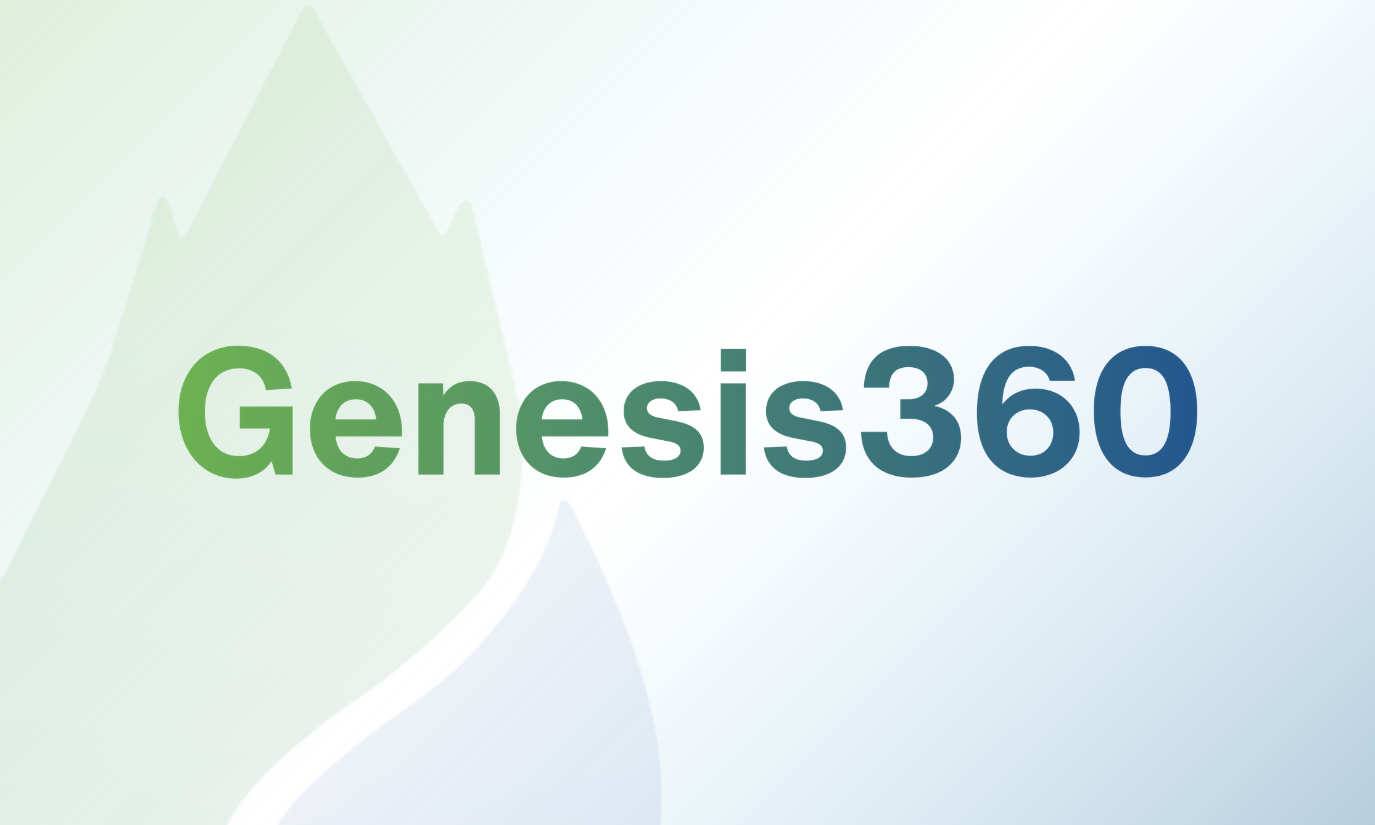
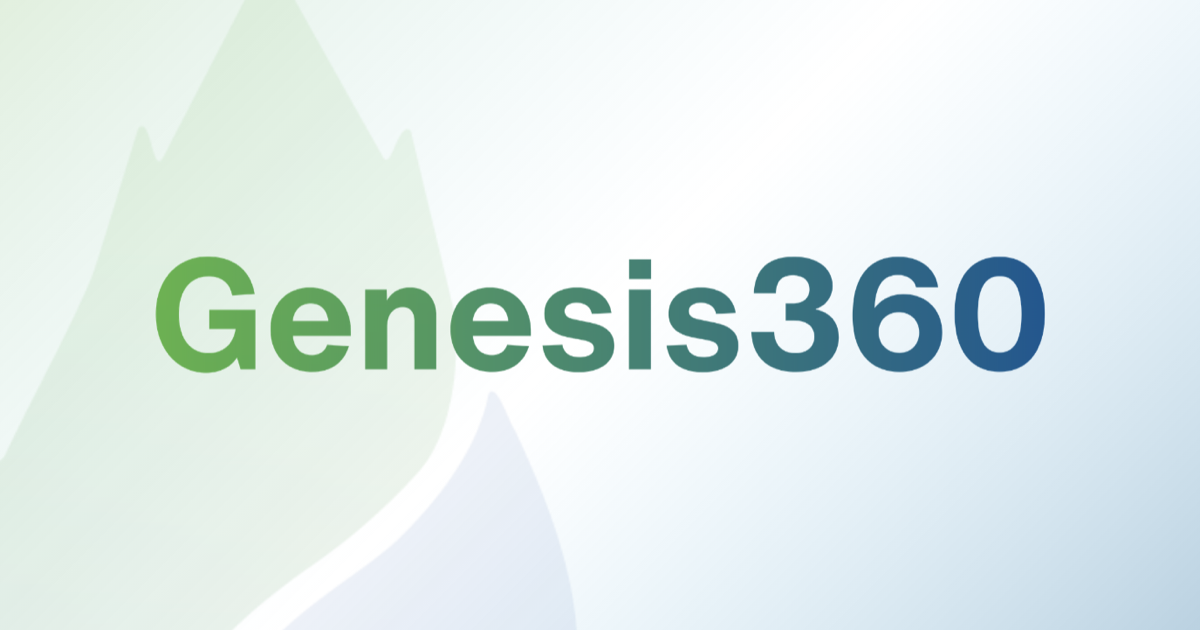
Soft launch: open the hog page behind the gate; deployment copy to the pricing guide
- public/_redirects: /ag/hogs-livestock/ served (200! rewrite above the ag
  splat); /ag and /ag/* forward to the hog page for the soft launch only.
- src/data/launch-gate.ts: SOFT_LAUNCH switchboard; hog page renders the
  minimal header/footer and points every CTA at the landing page's contact
  block; landing page Agriculture card links to the hog page.
- Header/Footer/AgCta take a contact href prop.
- Hog page 'One Platform. Three Ways To Deploy It.' cards renamed to the
  Sales Pricing Guide: Battery Powered Fogger, AgriGuard Mini Pro, AgriGuard.
  AgriGuard spelling fixed in two blog bodies and ag-markets.ts.
- reference-files/ moved into the repo and gitignored; the confidential
  pricing docx is gitignored too (repo is public).
- /ag/ Indoor Crops card uses the cannabis hero frame; social-share.png
  re-exported at 1200x630; DNS cutover verified.

Changed region(s): [[0.1233, 0.3921, 0.8633, 0.6032], [0.1233, 0.3921, 0.2158, 0.4825]]

diff --git a/src/data/blog-bodies/indoor-growing-facilities-microbial-risk-prevention.html b/src/data/blog-bodies/indoor-growing-facilities-microbial-risk-prevention.html
@@ -20,8 +20,8 @@
 <h4>Innovations in Mitigation: A Smarter Path Forward</h4>
 <p>Many indoor growers are finding that traditional sanitation methods often fail to keep pace with the increasing complexity of modern operations. When managing a high-density system with tightly controlled airflow, water circulation, and plant proximity, even minor lapses in microbial control can have facility-wide effects.</p>
 <p>To address these challenges, some operations are turning to automated dry fog systems that offer more consistent, facility-wide coverage. These systems utilize ultra-fine droplet technology to disperse disinfecting agents through the air, enabling a more comprehensive coverage across surfaces, equipment, and hard-to-reach areas.</p>
-<p>One such system is Genesis360 AGriGuard Dry Fog, a precision-engineered solution built specifically for indoor agriculture. AGriGuard Dry Fog provides clean and consistent dry fog without oversaturating grow lights, sensitive surfaces, or the plants themselves. The droplets are fine enough to reach into corners and enclosed areas, yet controlled enough to prevent buildup or excess moisture.</p>
-<p>AGriGuard Dry Fog is designed for seamless integration into various growing environments, including greenhouses, vertical farms, aquaponic systems, and cultivation rooms. Automating both air and surface disinfection helps reduce disease pressure, supports equipment longevity, and enables growers to maintain compliance with sanitation standards. Dry fog adds an essential layer of proactive defense. It’s a method for managing microbial risk with precision, especially in environments where traditional cleaning methods can’t reach every surface or airflow pocket.</p>
+<p>One such system is Genesis360 AgriGuard Dry Fog, a precision-engineered solution built specifically for indoor agriculture. AgriGuard Dry Fog provides clean and consistent dry fog without oversaturating grow lights, sensitive surfaces, or the plants themselves. The droplets are fine enough to reach into corners and enclosed areas, yet controlled enough to prevent buildup or excess moisture.</p>
+<p>AgriGuard Dry Fog is designed for seamless integration into various growing environments, including greenhouses, vertical farms, aquaponic systems, and cultivation rooms. Automating both air and surface disinfection helps reduce disease pressure, supports equipment longevity, and enables growers to maintain compliance with sanitation standards. Dry fog adds an essential layer of proactive defense. It’s a method for managing microbial risk with precision, especially in environments where traditional cleaning methods can’t reach every surface or airflow pocket.</p>
 <h3>The Power of Natural Defense</h3>
 <p>Environmental control is a critical component of disease prevention, but many growers are also seeking suitable and effective methods to manage pathogens in high-risk areas of their facilities. Shared surfaces, storage zones, and worker spaces often become overlooked points of contamination.</p>
 <p>This is where natural, plant-based ingredients can play a meaningful role. BAC Ag is one example. It is a product formulated with plant-based ingredients designed for use against a range of microorganisms. It has been evaluated for use against a broad spectrum of microorganisms.</p>

diff --git a/src/data/blog-bodies/secure-logic-newfields-ag-botanical-disinfection-partnership.html b/src/data/blog-bodies/secure-logic-newfields-ag-botanical-disinfection-partnership.html
@@ -1,7 +1,7 @@
 <h5>FOR IMMEDIATE RELEASE</h5>
 <h6><strong>Secure Logic and Newfields Ag Partner to Bring Botanical Disinfection and Automation to Agriculture</strong></h6>
 <p><strong><em>HOUMA, LA – July 7, 2025 –</em></strong> In a move poised to transform agricultural disinfection practices, Secure Logic, a disinfection technology innovator, has partnered with Newfields Ag, a leader in agronomic strategy and systems integration, to launch a breakthrough solution for pathogen control in agriculture.</p>
-<p>The partnership introduces BotaniMax™,a botanical-based disinfectant cleaner registered with the U.S. EPA as a 25(c) broad spectrum disinfectant, alongside Genesis360 HVAC and the AgGriGuard Ag Dry Fog Systems, Secure Logic’s automated, no-touch dry fog platforms. The integrated system delivers scalable disinfection and air quality management for livestock operations, processing environments, storage facilities, and indoor grow systems, all without the health risks and residue associated with traditional chemical disinfectants.</p>
+<p>The partnership introduces BotaniMax™,a botanical-based disinfectant cleaner registered with the U.S. EPA as a 25(c) broad spectrum disinfectant, alongside Genesis360 HVAC and the AgriGuard Ag Dry Fog Systems, Secure Logic’s automated, no-touch dry fog platforms. The integrated system delivers scalable disinfection and air quality management for livestock operations, processing environments, storage facilities, and indoor grow systems, all without the health risks and residue associated with traditional chemical disinfectants.</p>
 <p>“This is a major leap forward for agricultural biosecurity,” said Marty Boquet, CEO and Co-Founder of Secure Logic. “Pathogen control in agriculture has long been chemical-heavy, labor-intensive, and inconsistent. BotaniMax and our Genesis360 platform provide an automated solution that works with nature, not against it.”</p>
 <p><strong>The Growing Threat of Agricultural Pathogens</strong></p>
 <p>In 2023 alone, more than $18 billion in crop and livestock value was lost globally due to infectious disease outbreaks, according to the FAO. Pathogens such as <em>Salmonella</em>, <em>E. coli</em>, <em>Aspergillus</em>, and avian or swine flu continue to challenge animal and plant health, often spreading through high-contact surfaces and poorly ventilated environments.</p>

diff --git a/src/data/launch-gate.ts b/src/data/launch-gate.ts
@@ -1,0 +1,25 @@
+// Soft-launch switchboard.
+//
+// The public site is gated: public/_redirects sends every interior page back to
+// the landing page at / on the live domains, and the pages that ARE open render
+// the shared Header/Footer in `minimal` mode so no nav link leads into a gated
+// page. Pages currently open: / and /ag/hogs-livestock/. Soft-launch only: the
+// ag section (/ag, /ag/*) forwards to the hog page instead of / -- see the
+// `# ag` block in public/_redirects.
+//
+// When the full site goes live, flip SOFT_LAUNCH to false, delete
+// public/_redirects, and copy src/pages/home-full.astro over
+// src/pages/index.astro. Nothing else changes.
+export const SOFT_LAUNCH = true;
+
+// Enquiries route to the general info@ inbox on the Genesis360 domain, matching
+// the rest of the site. (The landing page previously pointed at Marty directly
+// to get people confused by the old messaging straight to a decision-maker.)
+export const CONTACT_EMAIL = 'info@genesis360.com';
+
+// Where the minimal chrome's Contact links go. The landing page owns the only
+// #contact block, so open interior pages point back at it.
+export const CONTACT_HREF = '/#contact';
+
+// Every CTA that used to link into a gated interior page now says this.
+export const CTA_LABEL = 'Contact Us To Learn More';

diff --git a/src/data/ag-markets.ts b/src/data/ag-markets.ts
@@ -20,7 +20,7 @@ export const agMarkets: Market[] = [
     title: 'Hogs & Livestock',
     icon: Beef,
     summary: 'Seasonal disinfection strategy for farrowing houses and grow-finish barns, built around ROI and herd health.',
-    heroCopy: 'Seasonal shifts in temperature and humidity change how pathogens behave in farrowing houses and grow-finish barns. AgGriGuard Dry Fog and BAC Ag deliver a disinfection strategy built around herd health and measurable return on investment.',
+    heroCopy: 'Seasonal shifts in temperature and humidity change how pathogens behave in farrowing houses and grow-finish barns. AgriGuard Dry Fog and BAC Ag deliver a disinfection strategy built around herd health and measurable return on investment.',
     image: pigFarming,
     imageAlt: 'Indoor pig farming facility with controlled housing pens',
     postSlugs: ['summer-vs-fall-rethinking-seasonal-cleaning-strategies-in-indoor-pig-farming'],

diff --git a/TASKS.md b/TASKS.md
@@ -34,7 +34,7 @@ unchecked task unless you are starting it.
       to Header.astro and Footer.astro so the shared chrome renders identically
       minus the gated nav links; the full site is unaffected. Dropped only the
       blog teaser, whose every card linked to a gated post
-- [ ] DNS cutover. genesis360.com is the primary domain; securelogicusa.com is
+- [x] DNS cutover. genesis360.com is the primary domain; securelogicusa.com is
       expected to redirect to it at the registrar. The gate in public/_redirects
       covers apex + www for BOTH domains (104 rules, 26 per host) and arms
       itself at cutover with no redeploy. After DNS lands, verify it actually
@@ -48,6 +48,12 @@ unchecked task unless you are starting it.
       If /ag/ returns 200 instead of a 302, the host-scoped rules did not match.
       Check the exact canonical hostname Netlify assigned and make the left
       column of public/_redirects match it.
+      Done 2026-09-16: verified live. Netlify's canonical host is
+      www.genesis360.com (apex 301s to www). www.genesis360.com/ -> 200,
+      www.genesis360.com/ag/ -> 302 location: /, securelogicusa.com and
+      www.securelogicusa.com -> 301 https://genesis360.com/ (registrar
+      forwarding; it answers 405 to HEAD, so probe with GET). The host-scoped
+      gate fired with no changes needed.
 - [x] /ag/indoor-growing/ Module 1: reworded the hero body copy to the supplied
       text. Lives in src/data/ag-markets.ts (the page runs on the shared
       ag/[slug].astro template, not a custom page like the hog one). Verified it
@@ -94,11 +100,16 @@ unchecked task unless you are starting it.
       shadowing. The template now emits nothing and is kept for the next ag
       market added before it earns a bespoke page. human/[slug].astro and
       hvac/[slug].astro are separate files and still fully in use
-- [ ] /ag/ index card for Indoor Growing still uses blog-greenhouse.png
+- [x] /ag/ index card for Indoor Growing still uses blog-greenhouse.png
       (strawberries). Now inconsistent with the cannabis-led indoor-growing
       page. Note it is NOT driven by ag-markets.ts — /ag/index.astro has its own
       local `sectors` array with its own images. hero-cannabis-poster.jpg could
       be reused there
+      Done 2026-09-16: the Indoor Crops card in /ag/index.astro now uses
+      hero-cannabis-poster.jpg (1280x720, the same frame as the
+      /ag/indoor-growing/ hero) with a matching alt. Only the import and alt
+      changed; blog-greenhouse.png is still used by the blog post itself.
+      Page is behind the gate, so this is visible on netlify.app only for now.
 - [x] Secondary nav (Genesis360 / BotaniMax / Shop All): small drop shadow
       beneath it so it reads as a layer above the page when it peeks back in on
       an upward scroll. Sits on `.site-header-sub > div` in Header.astro — the
@@ -114,10 +125,17 @@ unchecked task unless you are starting it.
       'https://genesis360.com'` in astro.config.mjs — scrapers silently ignore a
       relative og:image, so the absolute URL has to come from Astro.site. Do not
       remove that config line or every share preview goes blank
-- [ ] social-share.png is 1000x600. Works (above the 600x315 threshold for a
+- [x] social-share.png is 1000x600. Works (above the 600x315 threshold for a
       large card) but under the recommended 1200x630, so it upscales slightly on
       high-DPI and the 1.67:1 ratio can get cropped to 1.91:1 by some platforms.
       Re-export at 1200x630 when convenient
+      Done 2026-09-16: the file on disk was actually 1375x825 (same 1.67:1
+      ratio). Cropped it centred to 1375x720 (1.91:1) and resized to 1200x630
+      with sips; only gradient background was lost top and bottom, the
+      wordmark is untouched. BaseLayout reads width/height from the asset, so
+      og:image:width/height now emit 1200x630 with no code change. Previous
+      version is in git history if a re-export from the design source is
+      preferred.
 - [x] Confirm og:site_name should stay "Secure Logic" now that genesis360.com is
       the primary domain — set in BaseLayout.astro. Change if the share cards
       should read Genesis360 instead
@@ -703,6 +721,121 @@ unchecked task unless you are starting it.
       Build passes (43 pages). npm run check has 8 pre-existing errors in
       index.astro/home-full.astro from an unclosed {/* */} comment inside a div
       attribute list - identical to HEAD, unrelated to this change.
+- [x] Launch the hog page: make only the home page and the hog page available. All other pages, including the Ag page, should not be available at this time (same approach as the previous soft launch).
+      Done 2026-09-16: /ag/hogs-livestock/ is the one interior page opened
+      behind the existing gate; everything else (incl. /ag/) still 302s to /.
+      * public/_redirects: a `200!` rewrite-to-itself block for
+        /ag/hogs-livestock (bare + splat, all 4 hosts) placed ABOVE the `# ag`
+        splat, since Netlify takes the first matching rule. Mechanics verified
+        on a throwaway draft deploy: hog page 200, /ag/poultry/ + /ag/ 302 -> /.
+      * New src/data/launch-gate.ts (SOFT_LAUNCH, CONTACT_EMAIL, CONTACT_HREF,
+        CTA_LABEL). index.astro now imports the email + label from it.
+      * Hog page renders Header/Footer `minimal` while SOFT_LAUNCH is true, the
+        hero CTA and closing AgCta point at /#contact, and the related-posts
+        row (all gated blog links) is hidden. Built HTML checked: the only
+        internal links are /, /#contact, #deployments, tel:, mailto:.
+      * Header, Footer, AgCta grew a `contactHref`/`href` prop so the minimal
+        chrome can point at the landing page's #contact from another page.
+      * Landing page: the Agriculture card in "Explore By Application" now
+        links to /ag/hogs-livestock/ ("Explore Hogs & Livestock"); Human and
+        HVAC cards still go to #contact. That is the only way in from the
+        landing page; the minimal header deliberately has no nav.
+      * Observed: DNS cutover has landed. www.genesis360.com is served by
+        Netlify and the gate is firing (/ag/ -> 302 /). Apex 301s to www.
+      NOT pushed. Goes live on the next push to master (Netlify builds from
+      the repo). After deploy, verify:
+        curl -sI https://www.genesis360.com/ag/hogs-livestock/ | head -1  -> 200
+        curl -sI https://www.genesis360.com/ag/ | grep -i location        -> /
+- [x] Make "One platform, three ways to deploy it" and anywhere else on the website that describes how Genesis360 is delivered/deployed accurate to the new source of truth: brochures/Genesis360 Pricing Model - External.
+      Done 2026-09-16: source read from src/assets/brochures/Genesis360 Pricing
+      Model - External.docx (the Sales Pricing Guide). Its packaging: core
+      platforms Compact Wall Mount, AeroGuard, Battery Powered Fogger; market
+      packages EnviroGuard / MediGuard Pro / AgriGuard Mini Pro / GrowGuard
+      Pro / AeroGuard; AgriGuard large-barn custom builds (8/16/24 nozzles).
+      * Hog page "One Platform. Three Ways To Deploy It." cards renamed and
+        re-described to the guide: Handheld -> Battery Powered Fogger;
+        Mini -> AgriGuard Mini Pro (Compact Wall Mount Pro: 2 nozzles + PLC
+        Smart Board/App, small rooms in livestock zones); Custom -> AgriGuard
+        (custom-built, 8/16/24 app-controlled nozzles, up to ~45,000 sq. ft.,
+        after an on-site evaluation). Intro sentence and image alts updated.
+        Heading kept. This re-words the M3 copy from the earlier deck pass.
+        No prices on the page — the guide is marked not for customer
+        distribution.
+      * AgCta closing copy on the hog page and /ag/: "handheld, fixed, or
+        custom deployment" -> "portable, fixed, or custom AgriGuard deployment".
+      * Fixed the product-name misspellings AGriGuard / AgGriGuard -> AgriGuard
+        in two blog bodies (incl. the Newfields press release) and the
+        hogs-livestock heroCopy in ag-markets.ts.
+      * Checked and left alone as already consistent: landing + home-full
+        "two core platforms" cards (Compact Wall Mount, AeroGuard) and the
+        lineup note (portable foggers, mobile stands, large-barn builds).
+      * Not changed, flag for Marty: "BAC Ag" is still named as the livestock
+        liquid in a homepage testimonial quote, ag-markets.ts, and two blog
+        bodies. The guide calls the livestock liquid BioSecure AP. The quote is
+        a customer's words, so I did not rewrite it.
+      * Also noticed: the unused `systems` list in src/pages/[...slug].astro
+        still carries old names (InRoom / Compact / Mobile / Medical Dry Fog,
+        "Kinetic Systems"). It never renders, so left as-is.
+- [x] Project reference files live at /Users/joshuariley/Sites/securelogic-files (not in GitHub). Optionally move them into this repo for ease and gitignore them.
+      Done 2026-09-16: moved the whole folder (~180MB: images, logos, webcopy
+      decks, OneDrive dump, "Joshua Riley") to ./reference-files/ and added
+      `reference-files/` to .gitignore. The two source-comment paths in
+      ag/index.astro and ag/hogs-livestock.astro updated to the new location.
+      ALSO gitignored `src/assets/brochures/*.docx`: the pricing guide is
+      stamped "CONFIDENTIAL — NOT FOR CUSTOMER DISTRIBUTION" and this GitHub
+      repo (Team-Riley-Web/securelogic) is PUBLIC. The file stays where you
+      put it on disk, it just will not be committed. Delete that .gitignore
+      line if you do want it in the repo; the three brochure PDFs are
+      unaffected and still tracked.
+- [x] Soft launch: if someone goes to Ag (e.g. adjusts the URL to /ag/), send them to the hog page instead of the landing page. Make note of this so we don't keep it when we undo the gate for the full launch.
+      Done 2026-09-16: the `# ag` block in public/_redirects now 302s /ag,
+      /ag/ and every /ag/* page (poultry, indoor-growing, ...) to
+      /ag/hogs-livestock/ on all four live hosts. Verified on a draft deploy:
+      /ag -> 302 -> hog page 200; /ag/poultry/ -> 302 -> hog page.
+      UNDO NOTE, recorded in three places so it cannot be missed: the comment
+      on the `# ag` block itself, the OPEN PAGES header in _redirects, and
+      src/data/launch-gate.ts. Full launch deletes public/_redirects outright
+      (that has always been the plan), which removes this rule with it. If the
+      gate ever outlives the hog launch, point the `# ag` block back at /.
+      Not pushed; ships with the rest of today's soft-launch changes.
+- [ ] Build out the entire site. It should match the quality of the ag and hogs page.
+      Blocked 2026-09-16 (awaiting Joshua's answers, design not yet approved).
+      Scoped as architectural: ~25 non-blog pages + the blog templates.
+      Inventory: the ag section (4 pages) is the new standard; everything else
+      is older — 15 pages share one 755-line catch-all template
+      (src/pages/[...slug].astro: about, technology, botanimax, dry fog
+      systems, resources x4, faqs, contact, quote, privacy, and the human +
+      hvac hubs), human/[slug] and hvac/[slug] are 80-line hero + copy +
+      related-posts templates over 7 markets, blogs are a 93-line template.
+      Copy source gap: the only page-copy decks are the hog and ag ones. The
+      master deck (reference-files/webcopy/SL_master-site-page-copy_08-19-26
+      .docx) is 258 words: a nav (Home / Ag-greenhouse / HVAC / Human health /
+      Resources / Shopping Cart, sub-pages Barn, Greenhouse, Athletic,
+      Hospital, Commercial, Residential) plus a homepage mission block. That
+      IA differs from the live site (human: schools/athletics/military/
+      healthcare; hvac: residential/commercial/industrial; about, technology,
+      botanimax...). Brochures/PDFs in reference-files/OneDrive_1_8-13-2026
+      (Athletic e-brochure, AthleticGuard, HVAC, Technology Explainer,
+      Tarleton case study, BotaniMax docs) can feed copy.
+      Needs decided before design: (1) which IA governs, (2) whether Claude
+      drafts copy from brochures + current pages or waits for decks,
+      (3) build order, (4) whether "Shopping Cart" is in scope.
+      Update 2026-09-16 (later): Joshua decided all four — current IA and
+      mega-menu design stay (the deck's 5-item nav is a soft-launch nav
+      only); Claude drafts copy from brochures + existing pages; order is
+      Human, HVAC, product/about/technology, resources/utility, blog; shop is
+      out of scope. Approach approved: shared sector blocks composed per
+      page; Military kept as a lean standard page; athletics ROI qualitative
+      only, no dollar figures. Design spec written:
+      docs/superpowers/specs/2026-09-16-human-section-design.md (awaiting
+      Joshua's read-through before the implementation plan is written).
+      This umbrella entry is superseded by the five sub-project entries
+      appended below; it stays unchecked until all five are done.
+- [ ] Build-out 1/5 — Human section to ag/hog quality: /human/ hub + athletics (flagship), healthcare, schools, military. Spec: docs/superpowers/specs/2026-09-16-human-section-design.md
+- [ ] Build-out 2/5 — HVAC section to ag/hog quality: /hvac/ hub + residential, commercial, industrial, reusing the Human section's sector blocks. Needs its own spec.
+- [ ] Build-out 3/5 — Product and technology pages to ag/hog quality: Genesis360 systems (/genesis360mistingsystems/), BotaniMax, About Us, Technology. Needs its own spec.
+- [ ] Build-out 4/5 — Resources and utility pages to ag/hog quality: Resources hub, brochures, documentation, FAQs, Contact Us, Get A Quote, Privacy Policy. Needs its own spec.
+- [ ] Build-out 5/5 — Blog index and post templates to ag/hog quality. Needs its own spec.
 
 ## Seperate TODOS (not for AI)
 - match brand blue and green and then incorporate throughout the site 
